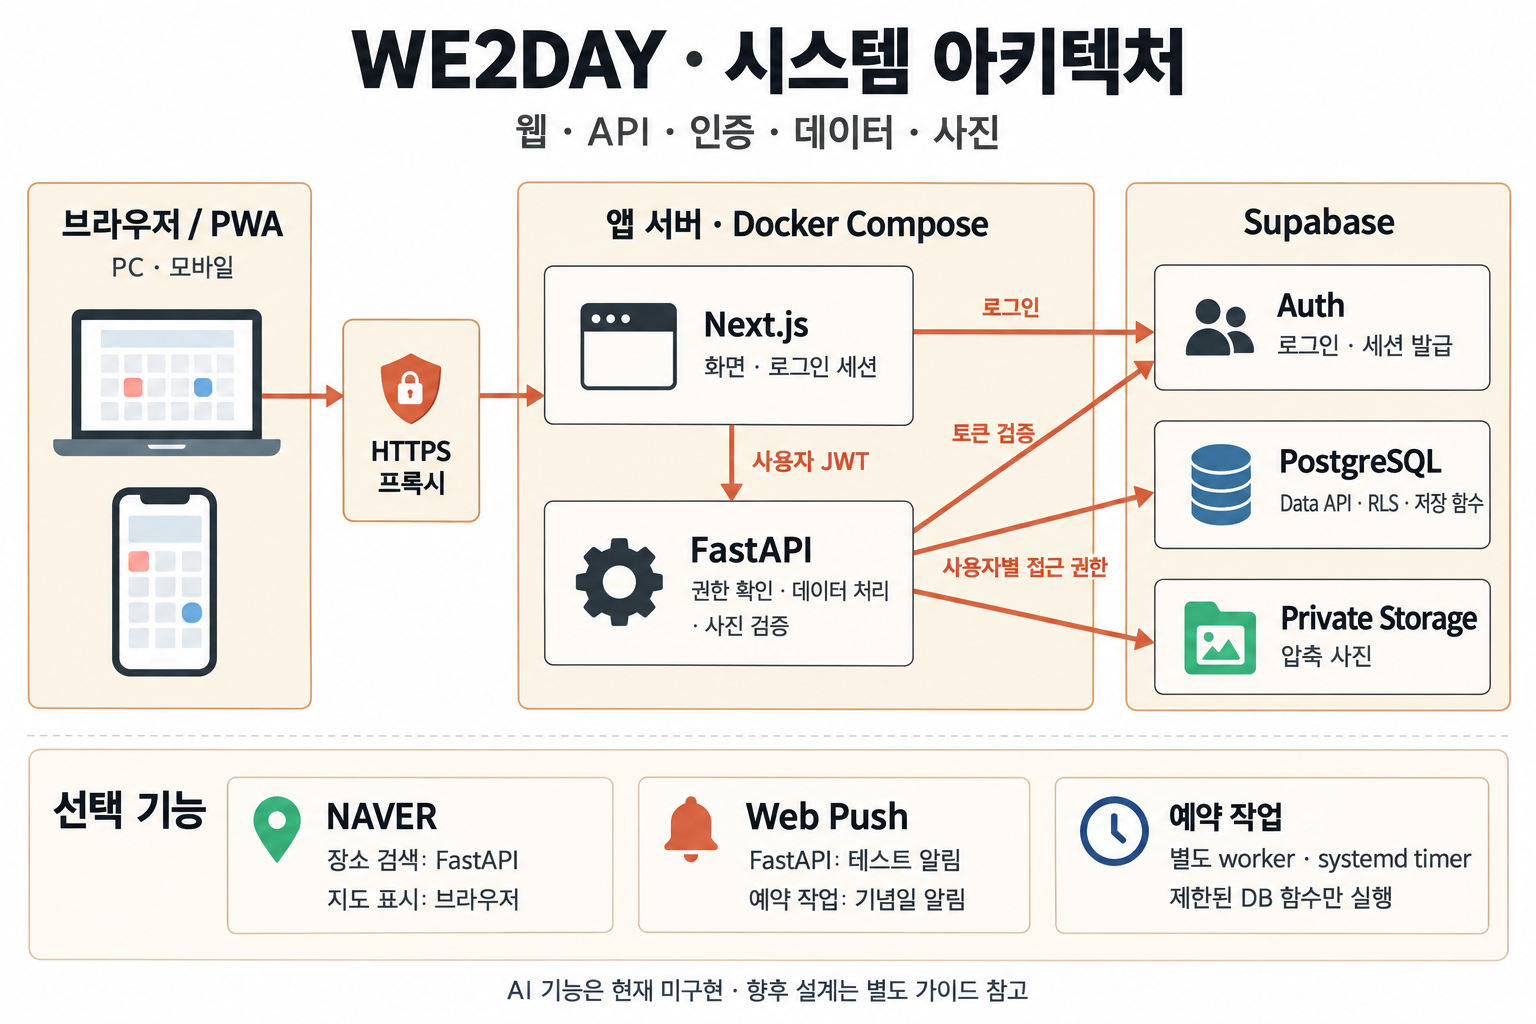
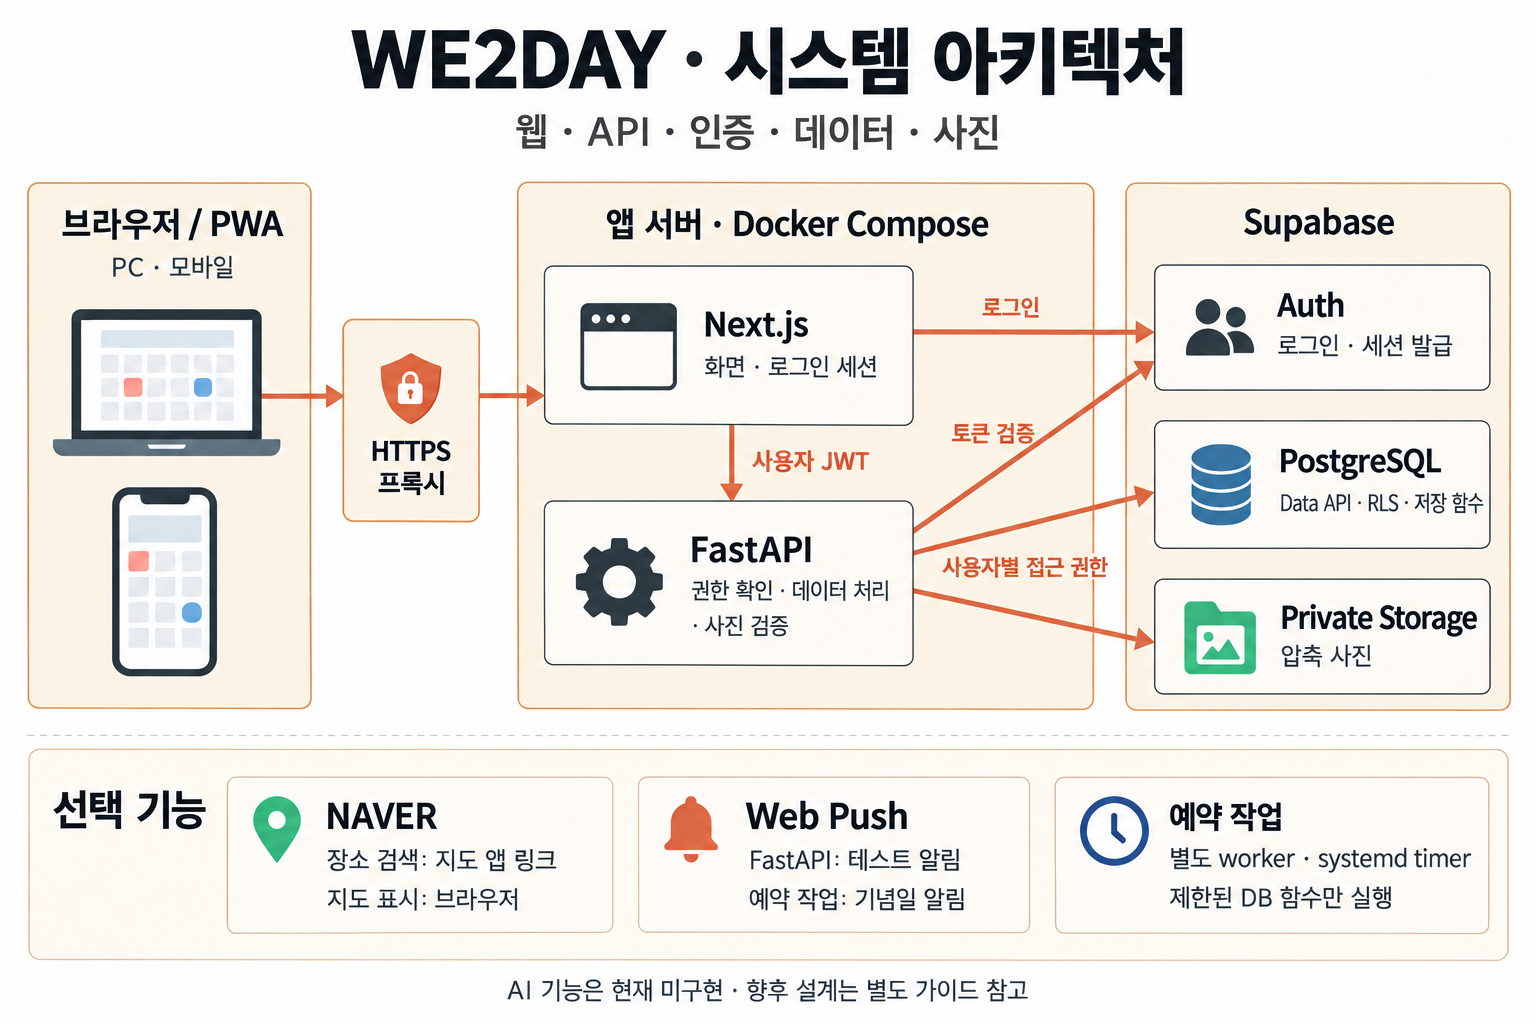
docs: 데이트 코스와 지도 검색 사용 안내 정리
- 코스 사전 등록과 당일 지도 앱 연결 절차 반영
- 종료한 검색 API 설정 안내 정리
- 시스템 구성도의 지도 앱 링크 설명 수정

diff --git a/guides/setup.md b/guides/setup.md
@@ -238,36 +238,25 @@ select to_regclass('public.anniversaries') as anniversary_table;
 
 결과가 `NULL`이면 테이블이 없는 상태입니다. 002 파일 전체를 실행하고 `Success`를 확인하세요. 테이블이 이미 있다면 파일을 다시 실행하기 전에 기존 실행 오류와 Data API 설정을 확인합니다. API 로그에는 오류 분류와 HTTP 상태만 남기며 SQL 원문·응답 본문·키는 기록하지 않습니다.
 
-## NAVER 장소 검색 설정 (선택)
+## NAVER 지도 검색
 
-설정하지 않아도 로그인·일정·기념일·사진 기능을 사용할 수 있습니다. 검색은 **NAVER API HUB → NAVER 검색 → 지역**을 사용합니다. Maps 지도 표시용 키·Google OAuth ID와 별개이며, Client Secret은 `apps/api/.env`에만 둡니다.
+장소 검색은 네이버 지도 앱으로 연결합니다. **별도 검색 API 신청·키·Client Secret은 필요하지 않습니다.**
 
-1. [네이버 클라우드 콘솔](https://console.ncloud.com/)에서 한국 리전의 **Application Services → NAVER API HUB → Subscription**을 엽니다. 현재 요금과 적용 약관을 확인하고 동의하는 경우 직접 이용 신청합니다.
-2. **Application → Application 등록 → NAVER 검색의 지역**을 선택합니다. 이름은 `WE2DAY-Local`처럼 영문·숫자·하이픈으로 작성합니다.
-3. **한도 및 알림**에서 일별/월별 한도를 설정합니다. 두 사람의 초기 사용이라면 하루 100회·한 달 1,000회를 시작값으로 검토할 수 있습니다. 같은 계정에 등록한 다른 Application의 사용량과 현재 무료 조건도 확인합니다.
-4. Application의 **인증 정보**에서 Client ID와 Client Secret을 확인하고, 기존 Supabase 설정을 유지한 채 `apps/api/.env`에 다음을 추가합니다. 값은 채팅·README·Git에 남기지 않습니다.
+1. 휴대폰에 네이버 지도 앱을 설치합니다.
+2. 약속 입력·약속 상세에서 **네이버 지도 검색**을 열고 장소명이나 주소를 입력합니다. 기존 장소가 있으면 검색어로 표시됩니다.
+3. **지도 검색**을 누르면 네이버 지도 앱에서 검색합니다. 검색창의 입력은 약속에 저장한 장소를 덮어쓰지 않습니다.
+4. 데이트 플랜에는 방문할 장소명·주소와 순서를 미리 적고 저장·확정합니다. 날짜별 **데이트 코스 → 네이버 지도**에서 저장한 장소를 다시 검색할 수 있습니다. 운전 길찾기는 지도 앱에서 선택합니다.
 
-```dotenv
-WE2DAY_NAVER_SEARCH_ENABLED=true
-WE2DAY_NAVER_SEARCH_CLIENT_ID=YOUR_API_HUB_CLIENT_ID
-WE2DAY_NAVER_SEARCH_CLIENT_SECRET=YOUR_API_HUB_CLIENT_SECRET
-```
-
-5. Docker 사용 시 `docker compose up --detach --wait`로 변경한 환경 변수를 반영합니다. `uvicorn --reload`로 실행 중이라도 `.env` 변경 후에는 API 프로세스를 재시작합니다. 웹에는 NAVER 키를 추가하지 않습니다.
-6. 로그인 후 **약속 추가하기 → 네이버 장소 검색 열기**에서 개인정보가 없는 장소 이름로 확인합니다. 검색 결과는 열람용이며, 약속이나 동선 기록에 자동 저장되지 않습니다. 새 SQL 마이그레이션은 필요하지 않습니다.
-
-검색 API와 Data Lab API의 무료 구간·기간·일/월 호출 제한은 상품별로 확인합니다. 이 앱은 지역 검색을 사용하며 검색어 트렌드·쇼핑 인사이트는 호출하지 않습니다. 키 설정 전에는 `WE2DAY_NAVER_SEARCH_ENABLED=false`를 유지합니다. [상품·요금 안내](https://www.ncloud.com/product/applicationService/NAVERAPIHUB), [콘솔 설정 안내](https://guide.ncloud-docs.com/docs/apihub-application).
-
-검색 결과는 화면에 표시하는 용도로만 사용하며 서버 DB나 파일, 브라우저의 영구 저장소에 저장하거나 AI에 전달하지 않습니다. 장소 정보를 보관하거나 다른 용도로 활용하려면 NAVER의 저장·가공·AI 입력 관련 이용 조건과 데이터 출처를 먼저 확인해야 합니다. [NAVER API 약관](https://developers.naver.com/products/terms/), [지역 검색 명세](https://api.ncloud-docs.com/docs/naver-api-hub-search-local).
+이전 버전의 `WE2DAY_NAVER_SEARCH_*` 설정은 더 이상 사용하지 않으므로 삭제할 수 있습니다. 이전 검색 API 경로는 종료 응답(HTTP410)만 반환합니다. 동선에 지도를 표시하려면 아래 Dynamic Map 설정을 별도로 진행하세요. 앱 실행·설치 여부와 외부 앱 복귀는 실제 휴대폰에서 확인해야 합니다. [공식 지도 앱 URL Scheme](https://guide-gov.ncloud-docs.com/docs/ko/naveropenapiv3-maps-url-scheme-url-scheme).
 
 ## NAVER 지도 표시 설정 (선택)
 
-장소 검색용 API HUB 키와 별도인 **NAVER Cloud Platform Maps → Dynamic Map**을 사용합니다. 지도 없이도 수동 플랜과 직접 좌표 기록은 사용할 수 있습니다.
+**NAVER Cloud Platform Maps → Dynamic Map**을 사용합니다. 장소 검색 링크와 달리 이 지도 표시에는 Client ID가 필요합니다. 지도 없이도 수동 플랜과 직접 좌표 기록은 사용할 수 있습니다.
 
 1. [네이버 클라우드 콘솔](https://console.ncloud.com/)의 **Application Services → Maps → Application**에서 이용 신청/애플리케이션 등록을 진행합니다. 해당 계정의 적용 약관·대표 계정 무료 혜택/호출량을 확인한 뒤 신청합니다.
 2. API는 **Dynamic Map**만 선택합니다. 이 구현에는 Directions 5·Geocoding·Reverse Geocoding이 필요하지 않습니다.
 3. **Web 서비스 URL**에 `http://127.0.0.1:3000`을 등록합니다. localhost도 사용한다면 `http://localhost:3000`을 별도로 등록하고, 운영 도메인이 생기면 HTTPS 주소를 추가합니다. 로그인 사이트 URL과 같은 주소로 접속하세요.
-4. 등록한 Maps 애플리케이션의 **Client ID**를 `apps/web/.env`에 추가합니다. API HUB의 검색 키를 재사용하지 않습니다.
+4. 등록한 Maps 애플리케이션의 **Client ID**를 `apps/web/.env`에 추가합니다. 지도 앱 검색 링크에는 이 키를 사용하지 않습니다.
 
 ```dotenv
 WE2DAY_NAVER_MAPS_CLIENT_ID=YOUR_MAPS_CLIENT_ID
@@ -279,7 +268,7 @@ WE2DAY_NAVER_MAPS_CLIENT_ID=YOUR_MAPS_CLIENT_ID
 
 SDK는 현재 `ncpKeyId` 매개변수를 사용합니다. `ncpClientId` 기반의 예전 예제와 혼동하지 마세요. 지도 인증 오류는 Dynamic Map 선택·Client ID·허용 Web 서비스 URL을 확인합니다. 지도 로드/인증에 실패해도 작성한 이름·좌표는 유지하며, 지도를 닫았다 열어 다시 시도할 수 있습니다. [SDK 시작 안내](https://navermaps.github.io/maps.js.ncp/docs/tutorial-2-Getting-Started.html), [Maps 신청 안내](https://guide.ncloud-docs.com/docs/application-maps-app-vpc), [공식 무료 혜택 FAQ](https://www.ncloud.com/support/faq/prod/2828).
 
-Maps와 API HUB 검색은 서로 다른 서비스이며 무료 제공·대표 계정 조건·호출 한도도 각각 확인해야 합니다. 사용 시점의 콘솔 조건을 확인하세요. 지도 SDK는 브라우저에서 NAVER 서비스로 직접 연결하며, 직접 지정한 두 점을 지도 위에 표시합니다. 검색·지도 결과를 저장하거나 다른 용도로 사용할 때는 해당 서비스의 이용 조건을 별도로 확인해야 합니다.
+Dynamic Map의 무료 제공·대표 계정 조건·호출 한도를 확인해야 합니다. 지도 앱 검색 링크는 서버 검색 API를 호출하지 않습니다. 사용 시점의 콘솔 조건을 확인하세요. 지도 SDK는 브라우저에서 NAVER 서비스로 직접 연결하며, 직접 지정한 두 점을 지도 위에 표시합니다. 검색·지도 결과를 저장하거나 다른 용도로 사용할 때는 해당 서비스의 이용 조건을 별도로 확인해야 합니다.
 
 <a id="checks"></a>
 
@@ -323,12 +312,12 @@ npm run test:pwa
 | `test:photos` | 테스트 이미지/EXIF로 압축·다운로드·메타데이터 제외·파일 거부/취소·모바일 검사 |
 | `test:photo-sharing` | 테스트 계정 두 개의 저장/공유·휴지통 이동·상대 계정에서 복구·30일/삭제 재시도·ZIP 다운로드·만남 메모/충돌. 실제 SQL + 사진 저장소를 대신하는 HTTP 테스트 서버 |
 | `test:map-loader` | 외부 호출 없이 SDK 준비 콜백/로드 이벤트·실패 후 재시도 검사. 브라우저·Docker 불필요 |
-| `test:plans` | 일회용 DB/테스트 계정 두 개의 동선 저장·공유, SDK 대역의 지연 로드/두 점·직선, 플랜 저장→확정→충돌→재확정→보관/복원. 실제 Maps/API HUB 호출 없음 |
+| `test:plans` | 일회용 DB/테스트 계정 두 개의 동선 저장·공유, SDK 대역의 지연 로드/두 점·직선, 플랜 저장→확정→충돌→재확정→보관/복원. 실제 Maps API 호출 없음 |
 | `test:journey` | 테스트 계정 두 개의 위시→플랜 확정→투데이·미확정 변경 제외→개인 회고 차단/공유/철회→복제 시 달력 보존 |
 | `test:organizer` | 테스트 계정의 다가오는 약속/기념일·날짜 직접 이동·ICS 실제 다운로드/메모 선택·월간 집계와 빈 월 |
 | `test:timeline` | 미정 비용(null)과 입력한 0원, 일부 비용의 합계 구분. Docker 불필요 |
 | `test:pwa` | 연결이 끊겼을 때 안내 화면 표시, API·인증·POST 응답 저장 제외, 사용자 선택에 따른 업데이트. Docker 불필요 |
-| `test:places` | 테스트 계정 로그인/공간·실제 웹/API의 미설정·Origin/본문 한도, 직접 작성한 가상 결과로 검색 표시/빈 결과/실패·안전 링크·약속 입력 보존. 실제 NAVER 호출 없음 |
+| `test:places` | 합성 약속 입력/상세의 지도 앱 검색 링크·기존 장소 기본값·특수문자 인코딩·초안 보존·과거 API410 종료. 외부 검색 API 호출 없음 |
 
 공동 일정·기념일 종단 검사는 웹/API/테스트용 인증의 위 포트와 임시 PostgREST의 54330 포트를 사용합니다. 날짜 계산은 첫날/100일·윤일/평년·한국 자정과 원본 보존을 검사하며, 브라우저에서는 사용자 두 명 기념일 공유·응답 유실 재시도·입력 오류/충돌·취소·두 테마를 확인합니다. 추적 파일은 남기지 않으며, 자동 검사와 별도로 실제 Supabase 프로젝트와 사용자 계정, 휴대폰에서도 동작을 확인해야 합니다.
 

diff --git a/README.md b/README.md
@@ -44,7 +44,7 @@ WE2DAY는 연인이 함께 일정과 추억을 관리하는 웹앱입니다. 달
 | 둘의 공간 | 미리 만든 아이디로 로그인, Google/Kakao 로그인 선택, 초대 코드로 두 계정 연결 |
 | 일정·기념일 | 월별 달력, 공동 일정, 디데이, 양력 기념일, 다가오는 일정, 캘린더 파일 다운로드 |
 | 데이트 준비 | 데이트 플랜 작성, 활동 순서·시간·예산·장소·준비물, 위시리스트, 플랜 확정·보관·복원 |
-| 당일 진행 | 확정한 플랜의 타임라인, 활동별 예정·방문 완료·건너뜀 표시 |
+| 당일 진행 | 날짜별 데이트 코스, 저장한 장소의 네이버 지도 앱 연결, 활동별 예정·방문 완료·건너뜀 표시 |
 | 만남·동선 | 만난 날과 메모, 출발점·도착점을 직선으로 연결한 지도, 기간별 동선 조회·GeoJSON 다운로드 |
 | 사진·추억 | 사진 압축·업로드·공유, 날짜별 앨범, 사진 검색, 휴대폰에서 원본을 찾기 위한 파일 정보, 휴지통·복구·ZIP 다운로드 |
 | 회고 | 플랜별 후기 템플릿, 개인 초안, 직접 공유·공유 취소, 작성자만 수정 |
@@ -52,7 +52,7 @@ WE2DAY는 연인이 함께 일정과 추억을 관리하는 웹앱입니다. 달
 | 기기·설정 | 웜 클린·화이트 테마, 홈 화면 설치 안내, 연결이 끊겼을 때의 안내 화면, 기기 알림 설정 |
 | 기록 사본 | 조회할 수 있는 기록의 JSON 다운로드, 파일 손상 확인, 로컬 파일 암호화·원본 비교 |
 
-장소 검색과 지도, 푸시 알림은 별도 설정을 마쳐야 사용할 수 있습니다. 기념일 자동 알림은 서버에 예약 작업을 설정한 뒤, 알림을 받을 기기에서도 직접 켜야 합니다. DB·사진의 일별 백업 도구는 운영자가 복구·키 보관을 검토한 뒤 별도로 켜는 구성입니다. 사본 자동 삭제와 전체 서비스 자동 복원, AI 플랜 생성, 사진/일정의 오프라인 편집, 영상 타임랩스, 네이티브 OS 위젯은 현재 제공하지 않습니다.
+장소 검색은 네이버 지도 앱 링크로 열며 별도 검색 API 키가 필요하지 않습니다. 앱 안의 동선 지도 표시와 푸시 알림은 별도 설정이 필요합니다. 기념일 자동 알림은 서버에 예약 작업을 설정한 뒤, 알림을 받을 기기에서도 직접 켜야 합니다. DB·사진의 일별 백업 도구는 운영자가 복구·키 보관을 검토한 뒤 별도로 켜는 구성입니다. 사본 자동 삭제와 전체 서비스 자동 복원, AI 플랜 생성, 사진/일정의 오프라인 편집, 영상 타임랩스, 네이티브 OS 위젯은 현재 제공하지 않습니다.
 
 WebP 압축이 지원되지 않는 브라우저에서는 사진을 JPEG로 줄이고, 서버에 저장할 때 WebP로 변환합니다. 원본은 전송하지 않으며 압축본의 크기·메타데이터 제한은 동일합니다.
 
@@ -107,7 +107,7 @@ docker compose up --build --detach
 flowchart LR
   A["로그인"] --> B["공간 생성 · 상대 초대"]
   B --> C["달력 약속 · 데이트 플랜"]
-  C --> D["확정 · 당일 타임라인"]
+  C --> D["확정 · 날짜별 데이트 코스"]
   D --> E["만난 날 · 사진 · 직선 동선"]
   E --> F["개인 회고 · 선택 공유"]
   F --> G["지난 기록 · 다음 데이트"]
@@ -115,8 +115,8 @@ flowchart LR
 
 1. **연결:** 한 사람이 공간을 만들고 초대 코드를 발급합니다. 상대는 자신의 계정으로 로그인해 코드를 수락합니다.
 2. **일정:** 달력 날짜를 선택하고 약속을 추가합니다. 기념일 관리에서 관계 시작일·생일·직접 정한 기념일을 기록합니다.
-3. **준비:** 일정 도구의 플랜에서 활동·예산·준비물을 적고 확정합니다. 초안은 달력에 올라가지 않습니다.
-4. **만남:** 타임라인에서 활동 진행을 직접 표시하고, 만난 날·메모·사진·출발/도착점을 남깁니다.
+3. **준비:** 달력에서 날짜를 고르고 **코스 등록**을 누릅니다. 방문할 장소명·주소와 활동 순서·예산·준비물을 적고 저장한 뒤 확정합니다. 확정하면 달력 약속 하나로 연결됩니다.
+4. **만남:** 선택 날짜의 **데이트 코스** 또는 **오늘의 데이트 코스**를 엽니다. 활동을 선택하고 **네이버 지도**를 누르면 저장한 장소명·주소로 지도 앱 검색이 열립니다. 앱에서 목적지를 확인하고 운전 길찾기를 선택합니다. 활동 진행과 만난 날·사진·동선은 직접 기록합니다.
 5. **회고:** 각자 리포트를 작성하고 원하는 시점에 공유합니다. 기록 검색·월간 추억·사본 내보내기로 다시 찾아봅니다.
 
 주요 메뉴는 **일정 · 함께 · 기록 · 설정**입니다. PC에서는 화면 위쪽, 모바일에서는 아래쪽에 표시됩니다. 함께에서는 목록·목표·질문·룰렛을, 기록에서는 사진·검색·동선·기록 다운로드를 사용할 수 있습니다. 설정에서는 테마·앱 설치·알림·시간대·계정을 관리합니다.
@@ -135,7 +135,7 @@ flowchart LR
 | UI | CSS 변수·반응형 공통 컴포넌트, Tailwind CSS 4 구성, Lucide |
 | API | Python 3.13, FastAPI, Pydantic, HTTPX, Pillow |
 | 데이터·인증·사진 | Supabase Auth, PostgreSQL, Data API/PostgREST, Private Storage |
-| 선택 기능 | NAVER API HUB 지역 검색, NAVER Maps, Web Push |
+| 선택 기능 | NAVER 지도 앱 검색 링크, NAVER Maps 지도 표시, Web Push |
 | 실행·검증 | Docker Compose, uv, npm workspace, Ruff, pytest, Biome, Playwright |
 
 Next.js는 로그인한 사용자의 인증 토큰(JWT)을 FastAPI에 전달합니다. FastAPI는 토큰을 확인하고, 데이터베이스의 행 단위 보안(RLS)은 사용자가 속한 공간의 데이터만 허용합니다. 사진은 비공개 저장소에 압축본으로 보관합니다. 개인 후기와 답변은 작성자가 공유하기 전까지 상대방에게 보이지 않습니다.

diff --git a/guides/architecture.md b/guides/architecture.md
@@ -114,11 +114,11 @@ erDiagram
 
 | 기능 | 호출 주체 | 범위 |
 | --- | --- | --- |
-| 장소 검색 | FastAPI → NAVER API HUB | 검색 결과 표시 |
+| 장소 검색 | 사용자가 누른 지도 앱 링크 | 입력한 장소명·주소의 네이버 지도 검색 |
 | 지도 표시 | 브라우저 → NAVER Maps SDK | 사용자가 연 지도와 직접 지정한 두 점 표시 |
-| 네이버 지도 앱 이동 | 사용자의 링크 클릭 | 선택한 장소 검색 또는 길안내 |
+| 날짜별 데이트 코스 | 사용자가 누른 지도 앱 링크 | 확정본 장소 검색, 앱에서 운전 길찾기 선택 |
 
-장소 검색용 키와 지도 표시용 Client ID는 각각 설정해야 합니다. 검색 결과를 자동으로 장기 저장하거나 AI에 전달하지 않습니다. 공급자 결과의 보관·가공·AI 사용은 이용 조건을 확인해야 합니다. 지도 앱에서 돌아온 사실만으로 방문 완료를 기록하지 않습니다.
+장소 검색은 별도 API 키 없이 `nmap://search` 링크로 네이버 지도 앱에 연결합니다. 서버는 검색 API를 호출하지 않으며 공급자 검색 응답을 수집·저장하지 않습니다. 동선 지도 표시에는 Dynamic Map Client ID를 설정합니다. 사용자 입력 장소명·주소·활동 순서는 플랜에 저장하고, 당일 코스는 마지막 확정본을 표시합니다. 지도 앱에서 돌아온 사실만으로 방문 완료를 기록하지 않습니다.
 
 ## 7. 기념일 자동 알림
 
